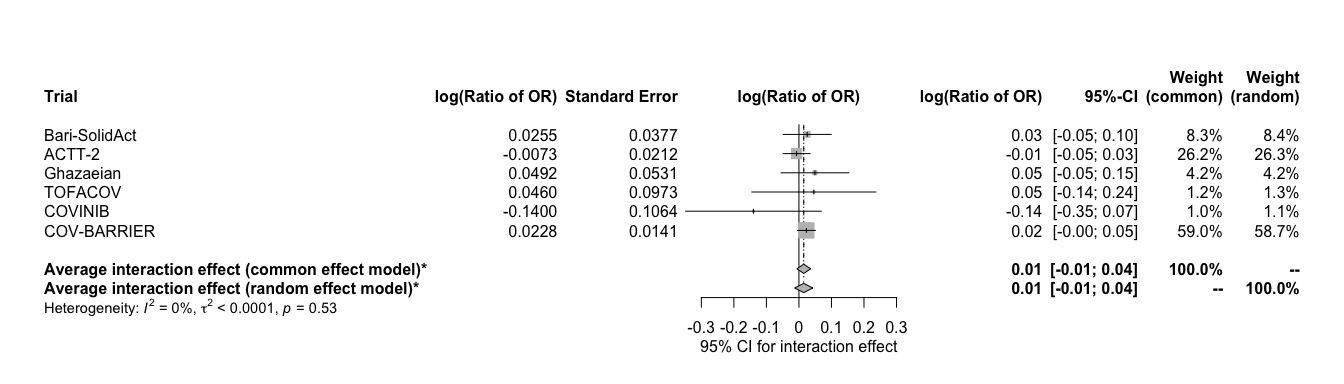
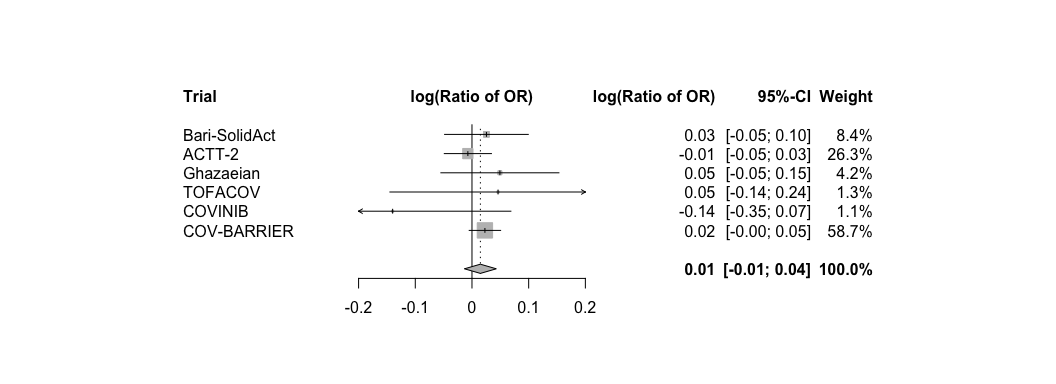
two-stage: forestplot subgroups

diff --git a/two_stage.md b/two_stage.md
@@ -2321,75 +2321,6 @@ forest(df_sg_vb_mort28$hazard_odds_ratio,
 ```r
 # dev.off()
 ```
-Discussion points
-
-
-```r
-# df_subgroup_actt2_title <- data.frame(variable = c("ACTT2"))
-# df_subgroup_actt2_title$hazard_odds_ratio <- NA
-# df_subgroup_actt2_title$ci_lower <- NA
-# df_subgroup_actt2_title$ci_upper <- NA
-# df_subgroup_actt2_title$standard_error <- NA
-# df_subgroup_actt2_title$p_value <- NA
-# df_subgroup_actt2_title$n_intervention <- NA
-# df_subgroup_actt2_title$n_intervention_tot <- NA
-# df_subgroup_actt2_title$n_control <- NA
-# df_subgroup_actt2_title$n_control_tot <- NA
-# df_subgroup_actt2_title$trial <- NA
-# df_subgroup_actt2_title$JAKi <- NA
-# df_subgroup_covbarrier_title <- data.frame(variable = c("COV-BARRIER"))
-# df_subgroup_covbarrier_title$hazard_odds_ratio <- NA
-# df_subgroup_covbarrier_title$ci_lower <- NA
-# df_subgroup_covbarrier_title$ci_upper <- NA
-# df_subgroup_covbarrier_title$standard_error <- NA
-# df_subgroup_covbarrier_title$p_value <- NA
-# df_subgroup_covbarrier_title$n_intervention <- NA
-# df_subgroup_covbarrier_title$n_intervention_tot <- NA
-# df_subgroup_covbarrier_title$n_control <- NA
-# df_subgroup_covbarrier_title$n_control_tot <- NA
-# df_subgroup_covbarrier_title$trial <- NA
-# df_subgroup_covbarrier_title$JAKi <- NA
-# 
-# df_subgroup_tot <- rbind(df_subgroup_actt2_title, df_subgroup_actt2, df_subgroup_covbarrier_title, df_subgroup_covbarrier)
-# 
-# 
-# base_data <- tibble(mean = df_subgroup_tot$hazard_odds_ratio, 
-#                     lower = df_subgroup_tot$ci_lower,
-#                     upper = df_subgroup_tot$ci_upper,
-#                     subgroup = df_subgroup_tot$variable)
-# header <- tibble(subgroup = c("Treatment effects by trial and subgroup (ventilation)"),
-#                  summary = TRUE)
-# vb_mort28_fp <- bind_rows(header,base_data)
-# font <- "sans"
-# 
-# # Open a pdf file
-# # pdf("vb_mort28_fp.pdf", width=10, height=4)
-# vb_mort28_fp %>% 
-#   forestplot(labeltext = c(subgroup),
-#              txt_gp = fpTxtGp(label = gpar(fontfamily = font, cex=1),
-#                               ticks = gpar(cex=1),
-#                               xlab = gpar(cex=1)),
-#              is.summary = summary,
-#              graph.pos = 2,
-#              clip = c(0.1, 2), 
-#              hrzl_lines = list("2" = gpar(lty = 2), 
-#                                "3" = gpar(lty = 2),
-#                                "5" = gpar(lty = 2), 
-#                                "6" = gpar(lty = 2)),
-#              xlog = FALSE,
-#              xticks = c(0,0.25,0.5,0.75,1,1.25,1.5,1.75,2),
-#              boxsize = 0.22,
-#              lty.ci = c(1),
-#              col = fpColors(box = "maroon4",
-#                             line = "maroon1",
-#                             hrz_lines = "gray63"),
-#              vertices = TRUE,
-#              xlab = "     Favours JAKi <-> Favours No JAKi",
-#              zero = 1,
-#              graphwidth = unit(100, "mm"), colgap = unit(2.5, "mm")
-#              )
-# # dev.off()
-```
 
 # Interaction: Age on primary endpoint
 
@@ -2417,7 +2348,7 @@ age.mort28 <- metagen(TE = log(log_odds_ratio),
                       # n.e = n_intervention + n_control,
                       # n.c = n_control,
                       sm = "log(Ratio of OR)",
-                      fixed = T, # the true interaction is assumed the same in all trials 
+                      fixed = F, # the true interaction is assumed the same in all trials 
                       random = T, # the true interactions are assumed random across trials
                       method.tau = "REML", # same results with ML (-> see one-stage!)
                       hakn = T, # Hartung-Knapp- Sidik-Jonkman (HKSJ) modified estimate of the variance / 95% CI -> notes
@@ -2432,18 +2363,17 @@ summary(age.mort28)
 ```
 ## Review:     Treatment-covariate interaction on primary endpoint: Age
 ## 
-##               log(Ratio of OR)            95%-CI %W(common) %W(random)
-## Bari-SolidAct           0.0255 [-0.0483; 0.0993]        8.3        8.4
-## ACTT-2                 -0.0073 [-0.0488; 0.0343]       26.2       26.3
-## Ghazaeian               0.0492 [-0.0549; 0.1534]        4.2        4.2
-## TOFACOV                 0.0460 [-0.1448; 0.2368]        1.2        1.3
-## COVINIB                -0.1400 [-0.3486; 0.0686]        1.0        1.1
-## COV-BARRIER             0.0228 [-0.0049; 0.0505]       59.0       58.7
+##               log(Ratio of OR)            95%-CI %W(random)
+## Bari-SolidAct           0.0255 [-0.0483; 0.0993]        8.4
+## ACTT-2                 -0.0073 [-0.0488; 0.0343]       26.3
+## Ghazaeian               0.0492 [-0.0549; 0.1534]        4.2
+## TOFACOV                 0.0460 [-0.1448; 0.2368]        1.3
+## COVINIB                -0.1400 [-0.3486; 0.0686]        1.1
+## COV-BARRIER             0.0228 [-0.0049; 0.0505]       58.7
 ## 
 ## Number of studies: k = 6
 ## 
-##                              log(Ratio of OR)            95%-CI  z|t p-value
-## Common effect model                    0.0149 [-0.0064; 0.0361] 1.37  0.1713
+##                              log(Ratio of OR)            95%-CI    t p-value
 ## Random effects model (HK-SE)           0.0148 [-0.0133; 0.0429] 1.36  0.2331
 ## 
 ## Quantifying heterogeneity:
@@ -2462,21 +2392,183 @@ summary(age.mort28)
 ```
 
 ```r
+# pdf("age.mort28.pdf", width=11, height=4)
 forest.meta(age.mort28,
-            # hetstat = F,
+            hetstat = F,
             # rightcols = c("w.random"),
-            leftcols = c("studlab", "TE", "seTE"),
-            leftlabs = c("Trial", "log(Ratio of OR)", "Standard Error"),
-            text.common = "Average interaction effect (common effect model)*",
-            text.random = "Average interaction effect (random effect model)*",
+            leftcols = c("studlab"),
+            leftlabs = c("Trial"),
+            # text.common = "Average interaction effect (common effect model)*",
+            text.random = "",
             title = "Treatment-covariate interaction on primary endpoint: Age",
-            # xlim = c(0.15,5),
-            xlab = "95% CI for interaction effect"
+            xlim = c(-0.2,0.2),
+            # xlab = "95% CI for interaction effect"
             )
 ```
 
-![](two_stage_files/figure-html/unnamed-chunk-29-1.png)<!-- -->
+![](two_stage_files/figure-html/unnamed-chunk-28-1.png)<!-- -->
+
+```r
+# dev.off()
+```
 Discussion points
+
+# Subgroups: Age on primary endpoint
+
+```r
+# Calculate the inverse variance
+df_sg_age_mort28$inverse_variance <- 1 / df_sg_age_mort28$standard_error^2
+
+# Insert ACTT2 title
+empty_row <- data.frame(
+  variable = "ACTT2",
+  hazard_odds_ratio = -1,
+  ci_lower = -1,
+  ci_upper = -1,
+  standard_error = NA,
+  p_value = NA,
+  n_intervention = NA,
+  n_intervention_tot = NA,
+  n_control = NA,
+  n_control_tot = NA,
+  trial = NA,
+  JAKi = NA,
+  inverse_variance = NA
+)
+df_sg_age_mort28 <- rbind(empty_row, df_sg_age_mort28)
+
+# Insert cov-barrier title
+empty_row <- data.frame(
+  variable = "COV-BARRIER",
+  hazard_odds_ratio = -1,
+  ci_lower = -1,
+  ci_upper = -1,
+  standard_error = NA,
+  p_value = NA,
+  n_intervention = NA,
+  n_intervention_tot = NA,
+  n_control = NA,
+  n_control_tot = NA,
+  trial = NA,
+  JAKi = NA,
+  inverse_variance = NA
+)
+# Split the dataframe into two parts before and after the third row
+first_part <- df_sg_age_mort28[1:3, ]
+second_part <- df_sg_age_mort28[4:nrow(df_sg_age_mort28), ]
+# Insert the empty row before/after
+df_sg_age_mort28 <- rbind(first_part, empty_row, second_part)
+
+# Insert bari-solidact title
+empty_row <- data.frame(
+  variable = "BARI-SOLIDACT",
+  hazard_odds_ratio = -1,
+  ci_lower = -1,
+  ci_upper = -1,
+  standard_error = NA,
+  p_value = NA,
+  n_intervention = NA,
+  n_intervention_tot = NA,
+  n_control = NA,
+  n_control_tot = NA,
+  trial = NA,
+  JAKi = NA,
+  inverse_variance = NA
+)
+# Split the dataframe into two parts before and after the third row
+first_part <- df_sg_age_mort28[1:6, ]
+second_part <- df_sg_age_mort28[7:nrow(df_sg_age_mort28), ]
+# Insert the empty row before/after
+df_sg_age_mort28 <- rbind(first_part, empty_row, second_part)
+
+# Insert Covinib title
+empty_row <- data.frame(
+  variable = "COVINIB",
+  hazard_odds_ratio = -1,
+  ci_lower = -1,
+  ci_upper = -1,
+  standard_error = NA,
+  p_value = NA,
+  n_intervention = NA,
+  n_intervention_tot = NA,
+  n_control = NA,
+  n_control_tot = NA,
+  trial = NA,
+  JAKi = NA,
+  inverse_variance = NA
+)
+# Split the dataframe into two parts before and after the third row
+first_part <- df_sg_age_mort28[1:9, ]
+second_part <- df_sg_age_mort28[10:nrow(df_sg_age_mort28), ]
+# Insert the empty row before/after
+df_sg_age_mort28 <- rbind(first_part, empty_row, second_part)
+
+# Insert TOFACOV title
+empty_row <- data.frame(
+  variable = "TOFACOV",
+  hazard_odds_ratio = -1,
+  ci_lower = -1,
+  ci_upper = -1,
+  standard_error = NA,
+  p_value = NA,
+  n_intervention = NA,
+  n_intervention_tot = NA,
+  n_control = NA,
+  n_control_tot = NA,
+  trial = NA,
+  JAKi = NA,
+  inverse_variance = NA
+)
+# Split the dataframe into two parts before and after the third row
+first_part <- df_sg_age_mort28[1:12, ]
+second_part <- df_sg_age_mort28[13:nrow(df_sg_age_mort28), ]
+# Insert the empty row before/after
+df_sg_age_mort28 <- rbind(first_part, empty_row, second_part)
+
+# Insert Ghazaeian title
+empty_row <- data.frame(
+  variable = "GHAZAEIAN",
+  hazard_odds_ratio = -1,
+  ci_lower = -1,
+  ci_upper = -1,
+  standard_error = NA,
+  p_value = NA,
+  n_intervention = NA,
+  n_intervention_tot = NA,
+  n_control = NA,
+  n_control_tot = NA,
+  trial = NA,
+  JAKi = NA,
+  inverse_variance = NA
+)
+# Split the dataframe into two parts before and after the third row
+first_part <- df_sg_age_mort28[1:15, ]
+second_part <- df_sg_age_mort28[16:nrow(df_sg_age_mort28), ]
+# Insert the empty row before/after
+df_sg_age_mort28 <- rbind(first_part, empty_row, second_part)
+
+# Create a forest plot
+# pdf("sg_age_mort28.pdf", width=10, height=8)
+forest(df_sg_age_mort28$hazard_odds_ratio,
+       ci.lb = df_sg_age_mort28$ci_lower,
+       ci.ub = df_sg_age_mort28$ci_upper,
+       slab = df_sg_age_mort28$variable,
+       alim = c(0, 3),
+       xlab = "Favours JAK inhibitor < > Favours no JAK inhibitor",
+       cex = 0.8,
+       refline = 1,
+       annotate = F,
+       lwd.ci = 1,
+       psize = sqrt(df_sg_age_mort28$inverse_variance),
+       )
+```
+
+![](two_stage_files/figure-html/unnamed-chunk-29-1.png)<!-- -->
+
+```r
+# dev.off()
+```
+
 
 # Interaction: Comorbidity on primary endpoint
 
